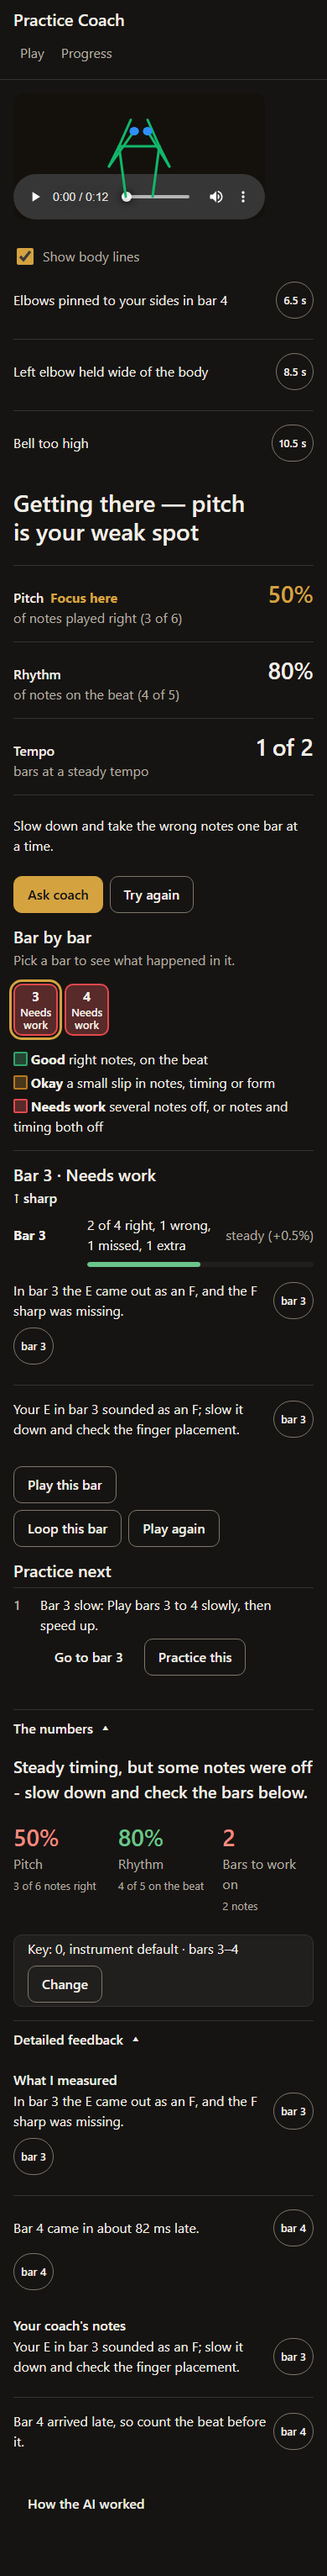
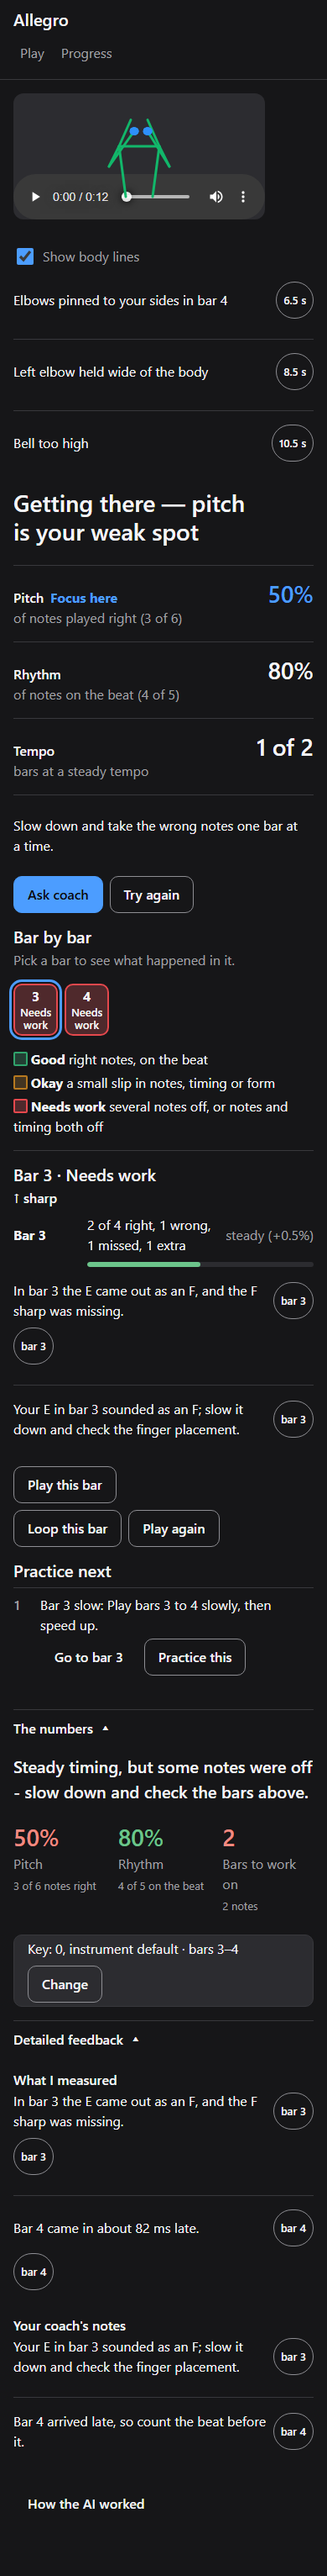
Results: palette status tokens from app.css, coach column only while a docked panel shows, headline says the bars are above
The bar boxes take --good/--okay/--work fill and border from app.css (the local --status-* copies are gone).
From 901px the 360px sticky #coach-root column exists only while .coach-sheet.is-docked is showing, so an
empty, collapsed or undocked coach leaves the results the full width. Screenshots regenerated.

.changes/none

diff --git a/frontend/css/results.css b/frontend/css/results.css
@@ -68,23 +68,10 @@ button.sentence-text:hover { color: var(--brass); text-decoration: underline; }
 .key-summary, .heard-summary, .next-action { margin: 0 0 var(--sp-2); }
 .next-action { font-weight: 600; }
 
-/* Bar by bar: one box per bar with its number and a word. Each level has a fill and an edge token; the text stays ink.
-   Until the global palette defines them, the status tokens are set here. In the dark scheme the fills are the edge over the surface. */
-.results {
-  --status-good-fill: #CDEFD8; --status-good-border: #30A46C;
-  --status-okay-fill: #FBE7B5; --status-okay-border: #B7791F;
-  --status-needs-work-fill: #F9D0CE; --status-needs-work-border: #E5484D;
-}
-@media (prefers-color-scheme: dark) {
-  .results {
-    --status-good-fill: color-mix(in srgb, var(--status-good-border) 28%, var(--surface));
-    --status-okay-fill: color-mix(in srgb, var(--status-okay-border) 28%, var(--surface));
-    --status-needs-work-fill: color-mix(in srgb, var(--status-needs-work-border) 28%, var(--surface));
-  }
-}
-.level-good { --fill: var(--status-good-fill); --fill-edge: var(--status-good-border); }
-.level-okay { --fill: var(--status-okay-fill); --fill-edge: var(--status-okay-border); }
-.level-needs-work { --fill: var(--status-needs-work-fill); --fill-edge: var(--status-needs-work-border); }
+/* Bar by bar: one box per bar with its number and a word. Each level takes the palette's status fill and edge (app.css); the text stays ink. */
+.level-good { --fill: var(--good-fill); --fill-edge: var(--good-border); }
+.level-okay { --fill: var(--okay-fill); --fill-edge: var(--okay-border); }
+.level-needs-work { --fill: var(--work-fill); --fill-edge: var(--work-border); }
 .bar-strip-section { margin-top: var(--sp-5); }
 .bar-strip-section h2, .practice-next h2 { margin: 0 0 var(--sp-1); }
 .bars-lead { margin: 0; }
@@ -149,9 +136,11 @@ button.sentence-text:hover { color: var(--brass); text-decoration: underline; }
 .exercise a.btn, .results .trace-link, .detect-change { min-height: var(--tap); }
 
 /* The results and the coach column. Neither the layout nor the coach sheet's mount point may pick up the card look main > div gets.
-   From 901px: the results, and #coach-root as a column about 360px wide that stays at the top while the results scroll. */
+   From 901px, while the coach is docked and open (.coach-sheet.is-docked, css/coach.css): the results, and #coach-root as a column
+   about 360px wide that stays at the top while the results scroll. With no docked panel showing (collapsed, a bottom sheet, or none yet)
+   there is no column: the results take the full width. */
 .results-layout, #coach-root { padding: 0; background: none; border: 0; box-shadow: none; }
 @media (min-width: 901px) {
-  .results-layout { display: grid; grid-template-columns: minmax(0, 1fr) 360px; align-items: start; gap: var(--sp-5); }
-  .results-layout > #coach-root { position: sticky; top: calc(var(--header-h) + var(--sp-3)); margin-top: 0; }
+  .results-layout:has(> #coach-root .coach-sheet.is-docked:not([hidden])) { display: grid; grid-template-columns: minmax(0, 1fr) 360px; align-items: start; gap: var(--sp-5); }
+  .results-layout:has(> #coach-root .coach-sheet.is-docked:not([hidden])) > #coach-root { position: sticky; top: calc(var(--header-h) + var(--sp-3)); margin-top: 0; }
 }

diff --git a/frontend/js/results/scores.js b/frontend/js/results/scores.js
@@ -38,7 +38,7 @@ export const percent = (share) => `${Math.round(share * 100)}%`;
 function checkNote(counts) {
   if (!counts?.total) return '';
   const formOnly = counts.form === counts.total;
-  return formOnly ? ' - check the form flags below.' : ' - check the flagged bars below.';
+  return formOnly ? ' - check the form flags above.' : ' - check the flagged bars above.';
 }
 
 // "Solid take: ..." with its closing full stop moved after the check note when form, extra-note or timing flags still list bars.
@@ -51,10 +51,10 @@ function solid(text, counts) {
 export function headline(pitch, rhythm, counts = null) {
   if (!pitch) return null;
   const notesStrong = pitch.share >= STRONG_PITCH;
-  if (!rhythm) return notesStrong ? solid('Solid take: the notes held up', counts) : 'Some notes were off - slow down and check the bars below.';
+  if (!rhythm) return notesStrong ? solid('Solid take: the notes held up', counts) : 'Some notes were off - slow down and check the bars above.';
   const timingStrong = rhythm.share >= STRONG_RHYTHM;
   if (notesStrong && timingStrong) return solid('Solid take: the notes and the timing both held up', counts);
   if (notesStrong) return 'Right notes, but the timing drifted - lean on the beat.';
-  if (timingStrong) return 'Steady timing, but some notes were off - slow down and check the bars below.';
-  return 'A rough one - slow it down and take the bars below one at a time.';
+  if (timingStrong) return 'Steady timing, but some notes were off - slow down and check the bars above.';
+  return 'A rough one - slow it down and take the bars above one at a time.';
 }
